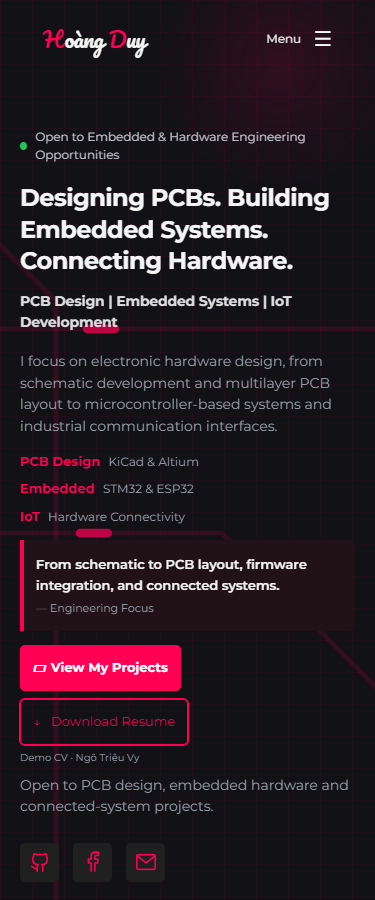
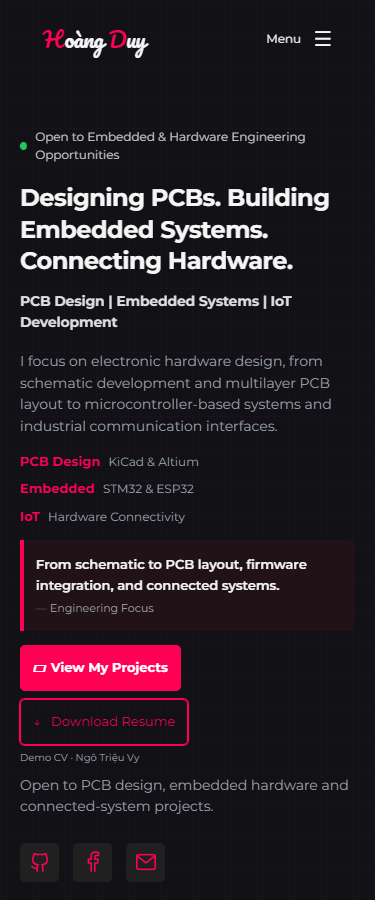
Keep only a softly drifting grid background

diff --git a/src/app/pcb-ambient.css b/src/app/pcb-ambient.css
@@ -2,24 +2,15 @@
 :root{--background:#111116;--page-base:#111116}
 body{background:#111116;isolation:isolate}
 .pcb-ambient{position:fixed;inset:0;z-index:-1;pointer-events:none;overflow:hidden;background:#111116;contain:paint}
-.pcb-ambient-grid{position:absolute;inset:-32px;background-image:linear-gradient(to right,rgba(255,0,85,.065) 1px,transparent 1px),linear-gradient(to bottom,rgba(255,0,85,.065) 1px,transparent 1px);background-size:32px 32px;animation:pcb-grid-drift 25s linear infinite;will-change:transform}
-.pcb-ambient-glow{position:absolute;width:260px;height:260px;top:-65px;left:40%;border-radius:50%;background:radial-gradient(circle,rgba(255,0,85,.18),transparent 70%);animation:pcb-glow-drift 9s ease-in-out infinite alternate;will-change:transform}
-.pcb-ambient-circuits{position:absolute;inset:0;width:100%;height:100%;display:block}
-.pcb-ambient-traces{stroke:#ff0055;stroke-opacity:.19;stroke-width:1.4;fill:none}
-.pcb-ambient-signals{stroke:#ff0055;stroke-width:2.5;stroke-linecap:round;stroke-dasharray:8 290;fill:none}
-.pcb-ambient-pulse{animation:pcb-signal-travel 5s linear infinite}
-.pcb-ambient-pulse-second{animation-duration:7s;animation-delay:-2.5s}
-.pcb-ambient-nodes{fill:#ff0055;opacity:.65}
+.pcb-ambient-grid{position:absolute;inset:-32px;background-image:linear-gradient(to right,rgba(255,0,85,.065) 1px,transparent 1px),linear-gradient(to bottom,rgba(255,0,85,.065) 1px,transparent 1px);background-size:32px 32px;animation:pcb-grid-drift 40s linear infinite;will-change:transform}
 .pcb-ambient[data-paused="true"] *{animation-play-state:paused!important}
 .site-header{background:transparent}
 .site-footer{background:rgba(31,31,31,.78)}
 @keyframes pcb-grid-drift{from{transform:translate(0,0)}to{transform:translate(32px,32px)}}
-@keyframes pcb-glow-drift{from{transform:translate(0,0)}to{transform:translate(110px,80px)}}
-@keyframes pcb-signal-travel{from{stroke-dashoffset:0}to{stroke-dashoffset:-298}}
 
 /* Compact technical ticker, with identical groups for a seamless loop. */
 .vision-marquee{padding:14px 0;border-block:1px solid #ff00551a;background:#17131a88;mask-image:linear-gradient(90deg,transparent,#000 3%,#000 97%,transparent)}
 .vision-marquee-group span{font-family:ui-monospace,SFMono-Regular,Consolas,monospace;font-size:12px;line-height:1.5;font-weight:500;letter-spacing:1px;color:#b98c9c;text-shadow:none;gap:32px;padding-right:32px}
 .vision-marquee-group i{font-size:12px;color:#ff0055;opacity:.6}
-@media(max-width:799px){.pcb-ambient-grid,.pcb-ambient-glow,.pcb-ambient-circuits{opacity:.72}}
-@media(prefers-reduced-motion:reduce){.pcb-ambient-grid,.pcb-ambient-glow,.pcb-ambient-pulse{animation:none;will-change:auto}}
+@media(max-width:799px){.pcb-ambient-grid{opacity:.72}}
+@media(prefers-reduced-motion:reduce){.pcb-ambient-grid{animation:none;will-change:auto}}

diff --git a/src/components/backgrounds/PCBAnimatedBackground.tsx b/src/components/backgrounds/PCBAnimatedBackground.tsx
@@ -1,15 +1,6 @@
 'use client';
 import {useEffect,useRef} from 'react';
 
-const traces=[
- 'M-10 54 H135 L176 95 H390 L430 55 H620',
- 'M-10 200 H105 L151 154 H310 L365 209 H620',
- 'M480 -10 V80 L448 112 V180 L510 242',
- 'M220 -10 V45 L262 87 V260',
- 'M-10 116 H60 L91 147',
-];
-const nodes=[[176,95],[390,95],[151,154],[448,112]];
-
 /** A single, persistent decorative layer. CSS owns every animation frame. */
 export function PCBAnimatedBackground(){
  const ref=useRef<HTMLDivElement>(null);
@@ -20,11 +11,5 @@ export function PCBAnimatedBackground(){
  },[]);
  return <div ref={ref} className="pcb-ambient" aria-hidden="true">
   <div className="pcb-ambient-grid"/>
-  <div className="pcb-ambient-glow"/>
-  <svg className="pcb-ambient-circuits" viewBox="0 0 600 260" preserveAspectRatio="xMidYMid slice" focusable="false">
-   <g className="pcb-ambient-traces">{traces.map(d=><path key={d} d={d}/>)}</g>
-   <g className="pcb-ambient-signals"><path className="pcb-ambient-pulse" d={traces[0]}/><path className="pcb-ambient-pulse pcb-ambient-pulse-second" d={traces[1]}/></g>
-   <g className="pcb-ambient-nodes">{nodes.map(([cx,cy])=><circle key={`${cx}-${cy}`} cx={cx} cy={cy} r="3"/>)}</g>
-  </svg>
  </div>;
 }

diff --git a/docs/pcb-ambient/README.md b/docs/pcb-ambient/README.md
@@ -1,22 +1,11 @@
-# Continuous PCB ambient background
+# Subtle animated grid background
 
-The background is mounted once in the application layout and remains fixed across Home, Boards and project details. The old per-section circuit components are no longer rendered.
+Current revision removes all SVG circuit paths, signal pulses, vias and the pink ambient glow. Only the fixed 32px square grid remains, drifting diagonally by 32px over 40 seconds with linear, seamless repetition.
 
-## Files changed
-- src/components/backgrounds/PCBAnimatedBackground.tsx: deterministic SVG routes and four nodes; hidden-tab pause without frame-driven React state.
-- src/app/pcb-ambient.css: 32px grid, pink glow, signal keyframes, continuous header/footer integration, reduced motion and compact ticker styling.
-- src/app/layout.tsx: mount the background once and load its styles after the reference stylesheet.
-- src/components/PortfolioHome.tsx: remove Capabilities and Work With Me; remove per-section backgrounds.
-- src/components/VisionMarquee.tsx: PCB DESIGN / IOT / FIRMWARE / WEARABLE TECH / AI / EMBEDDED SYSTEMS with dot separators.
-- scripts/check-pcb-ambient.mjs: geometry, timing, continuity, navigation, mobile and accessibility checks.
+The single layout-mounted background persists from Hero to Footer and through client navigation. It pauses in hidden tabs and becomes static with reduced motion. Mobile keeps the grid at reduced opacity.
 
-## Verification
-- Exact supplied five SVG paths, viewBox 0 0 600 260, xMidYMid slice and four nodes.
-- Grid: 32px, 25s diagonal translation. Glow: 260px, 9s alternate. Pulses: 5s and 7s, second delay -2.5s.
-- Motion advances without scrolling, pauses when the tab is hidden, and becomes static with reduced motion.
-- Fixed background retains its viewport box at the footer and persists through client navigation.
-- Seven viewport widths: 1479, 1280, 1024, 800, 768, 390 and 375; no horizontal overflow.
-- Production build, lint, 12 unit tests, static export (30 pages, 1,427 internal references, 66 images) and interaction suite passed.
-- Existing project images, content, portrait geometry, menu, tabs, FAQ, form and scroll reveals remain functional.
+Files changed: src/components/backgrounds/PCBAnimatedBackground.tsx, src/app/pcb-ambient.css and scripts/check-pcb-ambient.mjs.
 
-The installed Next.js version still reports a security upgrade recommendation. The build completes on retry; dependencies were not changed by this visual task.
+Production build, lint and browser checks passed. Seven viewport widths were checked for overflow, along with client navigation, mobile menu, tab visibility and reduced motion. Current screenshots and checks.json are in this directory.
+
+The installed Next.js version still recommends a security upgrade. Build succeeds on retry; dependencies were not changed by this visual task.
